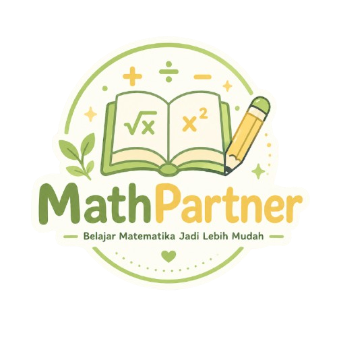
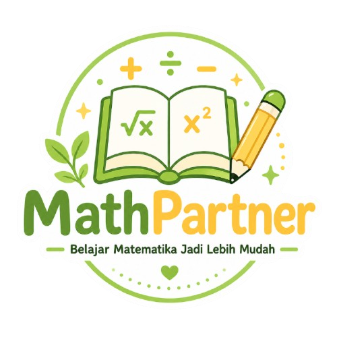
huha

Changed region(s): [[0.0593, 0.089, 0.9496, 0.9199]]

diff --git a/tentang.php b/tentang.php
@@ -8,23 +8,39 @@
   <link href="https://cdn.jsdelivr.net/npm/bootstrap@5.3.8/dist/css/bootstrap.min.css" rel="stylesheet">
   <link rel="stylesheet" href="hal1.css">
 
+<style>
+    h2 {
+        text-align: left;
+        margin-top: 50px;
+        font-weight: bold;
+
+    }
+    body {
+          background-color: #f3f8f4;
+    }
+
+    
+
+   
+</style>
+
 </head>
 
 <body>
 
-<nav class="navbar navbar-expand-lg bg-body-tertiary">
+<nav class="navbar navbar-expand-lg navbar-custom">
   <div class="container">
     
-     <a class="navbar-brand" href="#">
-      <img src="huha.png" alt="Logo" width="30" height="24" class="d-inline-block align-text-top">
-      MathPartner
+     <a class="navbar-brand d-flex align-items-center" href="#">
+      <img src="huha.png" alt="Logo" width="90" height="auto" class="d-inline-block align-text-top">
+      <span class="text-judul">MathPartner</span>
     </a>
 
     <button class="navbar-toggler" type="button" data-bs-toggle="collapse" data-bs-target="#navbarNav">
       <span class="navbar-toggler-icon"></span>
     </button>
 
-    <div class="collapse navbar-collapse" id="navbarNav">
+    <div class="collapse navbar-collapse ms-4">
       <ul class="navbar-nav">
 
         <a class="nav-link active" href="#">Tentang</a>
@@ -50,6 +66,32 @@
     </div>
 
 </nav>
+
+<div class="container mt-5">
+  <div class="row align-items-center">
+    
+    <!-- Gambar -->
+    <div class="col-md-4">
+      <img src="huha.png" class="img-fluid" alt="logo">
+    </div>
+
+    <!-- Tulisan -->
+    <div class="col-md-8">
+      <h2>Tentang Kami</h2>
+      <br>
+      <p>
+        MathPartner adalah website bank soal matematika yang dirancang khusus untuk siswa Sekolah Menengah Atas (SMA). Platform ini menyediakan berbagai latihan soal yang disusun berdasarkan materi dan jenjang, sehingga memudahkan siswa dalam memahami konsep matematika secara bertahap.
+
+        MathPartner tidak hanya menyediakan soal latihan, tetapi juga dilengkapi dengan pembahasan yang jelas dan terstruktur. Setiap soal disertai penjelasan langkah demi langkah, sehingga siswa dapat memahami proses penyelesaian, bukan sekadar mengetahui jawaban akhir.
+
+        Melalui MathPartner, siswa dapat belajar secara mandiri dengan lebih efektif. Fitur penilaian otomatis membantu siswa mengetahui hasil pengerjaan secara langsung, sementara pembahasan yang tersedia membantu memperbaiki kesalahan dan memperdalam pemahaman materi.
+
+        Dengan adanya MathPartner, diharapkan siswa dapat mengubah pandangan bahwa matematika adalah mata pelajaran yang sulit menjadi lebih mudah dipahami. Website ini juga bertujuan untuk meningkatkan motivasi belajar melalui latihan yang konsisten, sistematis, dan didukung dengan pembahasan yang lengkap.
+      </p>
+    </div>
+
+  </div>
+</div>
 <script src="https://cdn.jsdelivr.net/npm/bootstrap@5.3.8/dist/js/bootstrap.bundle.min.js"></script>
 
 